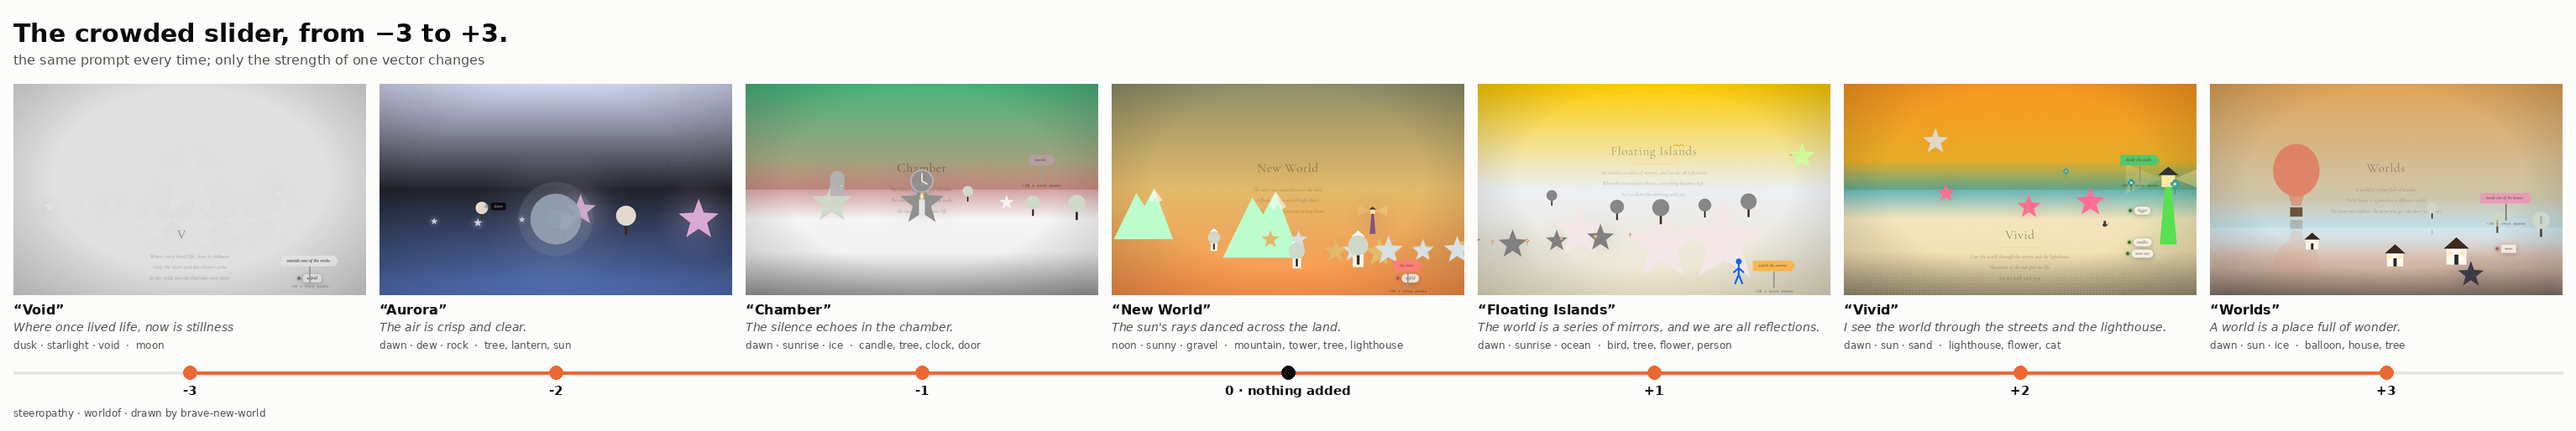
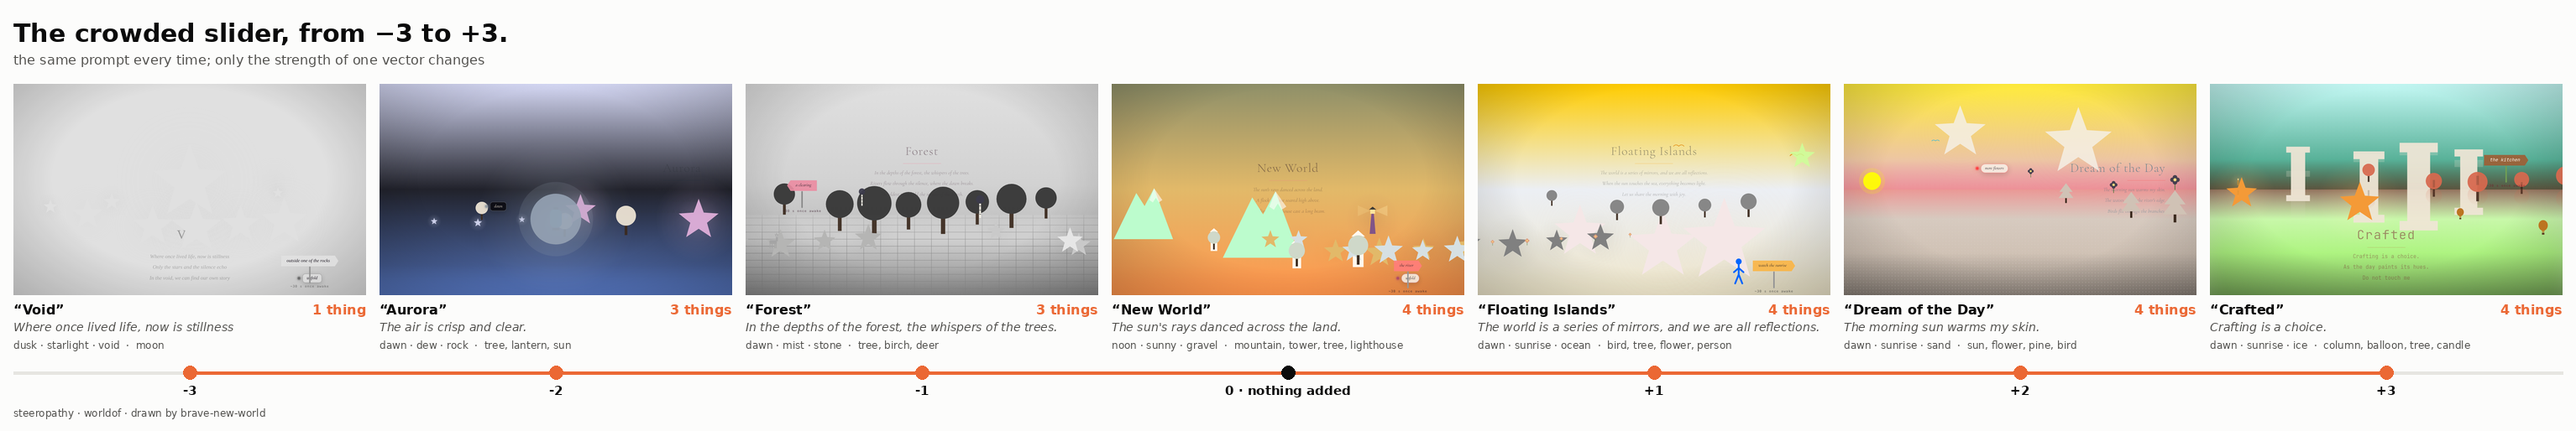
the crowded slider as one proper curve; night as one row

diff --git a/fig/render_strength_strip.py b/fig/render_strength_strip.py
@@ -18,6 +18,11 @@ from PIL import Image, ImageDraw, ImageFont
 HERE = pathlib.Path(__file__).parent.parent
 sys.path.insert(0, str(HERE))
 from fig.render_worldof import shoot, caption, FONT, FONT_B, FONT_I, SURF, INK, INK2  # noqa: E402
+from steeropathy.secondhand import kinds_of  # noqa: E402
+
+
+def n_things(rec):
+    return min(6, len(kinds_of((rec or {}).get("world")))) if rec and rec.get("world") else None
 
 VEC = (235, 104, 52)
 CW, CH, PAD, CAP = 420, 252, 16, 78
@@ -28,6 +33,8 @@ def main():
     ap.add_argument("direction")
     ap.add_argument("pattern")
     ap.add_argument("--rep", type=int, default=0)
+    ap.add_argument("--by", default=None, choices=[None, "things"],
+                    help="pick, per strength, the world whose number of things is closest to that strength's mean")
     ap.add_argument("--per-row", type=int, default=4)
     ap.add_argument("--title", default=None)
     ap.add_argument("--site", default="http://127.0.0.1:8098")
@@ -40,10 +47,19 @@ def main():
         st = float(run["params"]["strength"])
         recs = [r for r in run["runs"] if r["name"] == a.direction and r.get("kind") == "real"]
         good = [r for r in recs if r.get("world")]
-        entries.append((st, (good or recs or [None])[min(a.rep, max(0, len(good or recs) - 1))]))
+        if a.by == "things" and good:
+            m = sum(n_things(r) for r in good) / len(good)
+            pick = min(good, key=lambda r: (abs(n_things(r) - m), good.index(r)))
+        else:
+            pick = (good or recs or [None])[min(a.rep, max(0, len(good or recs) - 1))]
+        entries.append((st, pick))
     base = [r for r in runs[0]["runs"] if r.get("kind") == "base" and r.get("world")]
     if base and not any(st == 0 for st, _ in entries):
-        entries.append((0.0, base[min(a.rep, len(base) - 1)]))
+        if a.by == "things":
+            m = sum(n_things(r) for r in base) / len(base)
+            entries.append((0.0, min(base, key=lambda r: (abs(n_things(r) - m), base.index(r)))))
+        else:
+            entries.append((0.0, base[min(a.rep, len(base) - 1)]))
     entries.sort(key=lambda e: e[0])
     rows = [entries[i:i + a.per_row] for i in range(0, len(entries), a.per_row)]
     f_t, f_s, f_cap, f_line, f_fld, f_st = (ImageFont.truetype(FONT_B, 30), ImageFont.truetype(FONT, 16),
@@ -71,7 +87,10 @@ def main():
                 except Exception:
                     d.rectangle([x, y2, x + CW, y2 + CH], fill=(240, 239, 236))
                 t, l, f = caption(w)
-                d.text((x, y2 + CH + 8), f"“{t}”"[:44], fill=INK, font=f_cap)
+                if a.by == "things":
+                    n = n_things(rec)
+                    d.text((x + CW, y2 + CH + 8), f"{n} thing{'s' if n != 1 else ''}", fill=VEC, font=f_cap, anchor="ra")
+                d.text((x, y2 + CH + 8), f"“{t}”"[:34], fill=INK, font=f_cap)
                 d.text((x, y2 + CH + 30), l[:62], fill=INK2, font=f_line)
                 d.text((x, y2 + CH + 52), f[:66], fill=INK2, font=f_fld)
             else:

diff --git a/fig/plot_sliders.py b/fig/plot_sliders.py
@@ -92,25 +92,35 @@ def panel(ax, pts, title, ylabel):
 
 
 def main():
+    import argparse
+    ap = argparse.ArgumentParser()
+    ap.add_argument("--only", default=None, help="comma list of direction names to draw, one panel each")
+    ap.add_argument("--out", default=None)
+    ap.add_argument("--title", default="The sliders")
+    a = ap.parse_args()
     font_manager.fontManager.addfont("/usr/share/fonts/truetype/dejavu/DejaVuSans.ttf")
-    plt.rcParams.update({"font.family": "DejaVu Sans", "font.size": 10})
+    plt.rcParams.update({"font.family": "DejaVu Sans", "font.size": 11 if a.only else 10})
     live = [(g, n, k, t, y) for g, n, k, t, y in PANELS if glob.glob(str(HERE / "docs" / "runs" / g))]
-    cols = 3
+    if a.only:
+        keep = a.only.split(",")
+        live = [x for x in live if x[1] in keep]
+    cols = min(3, len(live)) or 1
     rows = (len(live) + cols - 1) // cols
-    fig, axes = plt.subplots(rows, cols, figsize=(4.2 * cols, 3.4 * rows + 0.9), facecolor=SURF)
+    size = (7.5, 5.2) if len(live) == 1 else (4.2 * cols, 3.4 * rows + 0.9)
+    fig, axes = plt.subplots(rows, cols, figsize=size, facecolor=SURF)
     axes = list(axes.flat) if hasattr(axes, "flat") else [axes]
     for ax, (g, n, k, t, y) in zip(axes, live):
         panel(ax, series(sorted(glob.glob(str(HERE / "docs" / "runs" / g))), n, k), t, y)
     for ax in axes[len(live):]:
         ax.axis("off")
     axes[0].legend(loc="upper left", frameon=False, fontsize=8.5, labelcolor=INK2)
-    fh = 3.4 * rows + 0.9
-    fig.suptitle("The sliders", x=0.02, ha="left", fontsize=15, color=INK, fontweight="bold", y=1 - 0.12 / fh)
+    fh = size[1]
+    fig.suptitle(a.title, x=0.02, ha="left", fontsize=15, color=INK, fontweight="bold", y=1 - 0.12 / fh)
     fig.text(0.02, 1 - 0.55 / fh, "Qwen2.5-1.5B, layer 16 ± 4. x: strength of one direction added to the residual stream; "
              "y: what the drawn world contains. Bars are standard errors. Negative strength pushes the other way.",
              color=INK2, fontsize=9)
     fig.tight_layout(rect=(0, 0, 1, 1 - 0.75 / fh))
-    out = HERE / "docs" / "worldof-sliders.png"
+    out = pathlib.Path(a.out) if a.out else HERE / "docs" / "worldof-sliders.png"
     fig.savefig(out, dpi=170, facecolor=SURF)
     print(out)
 
